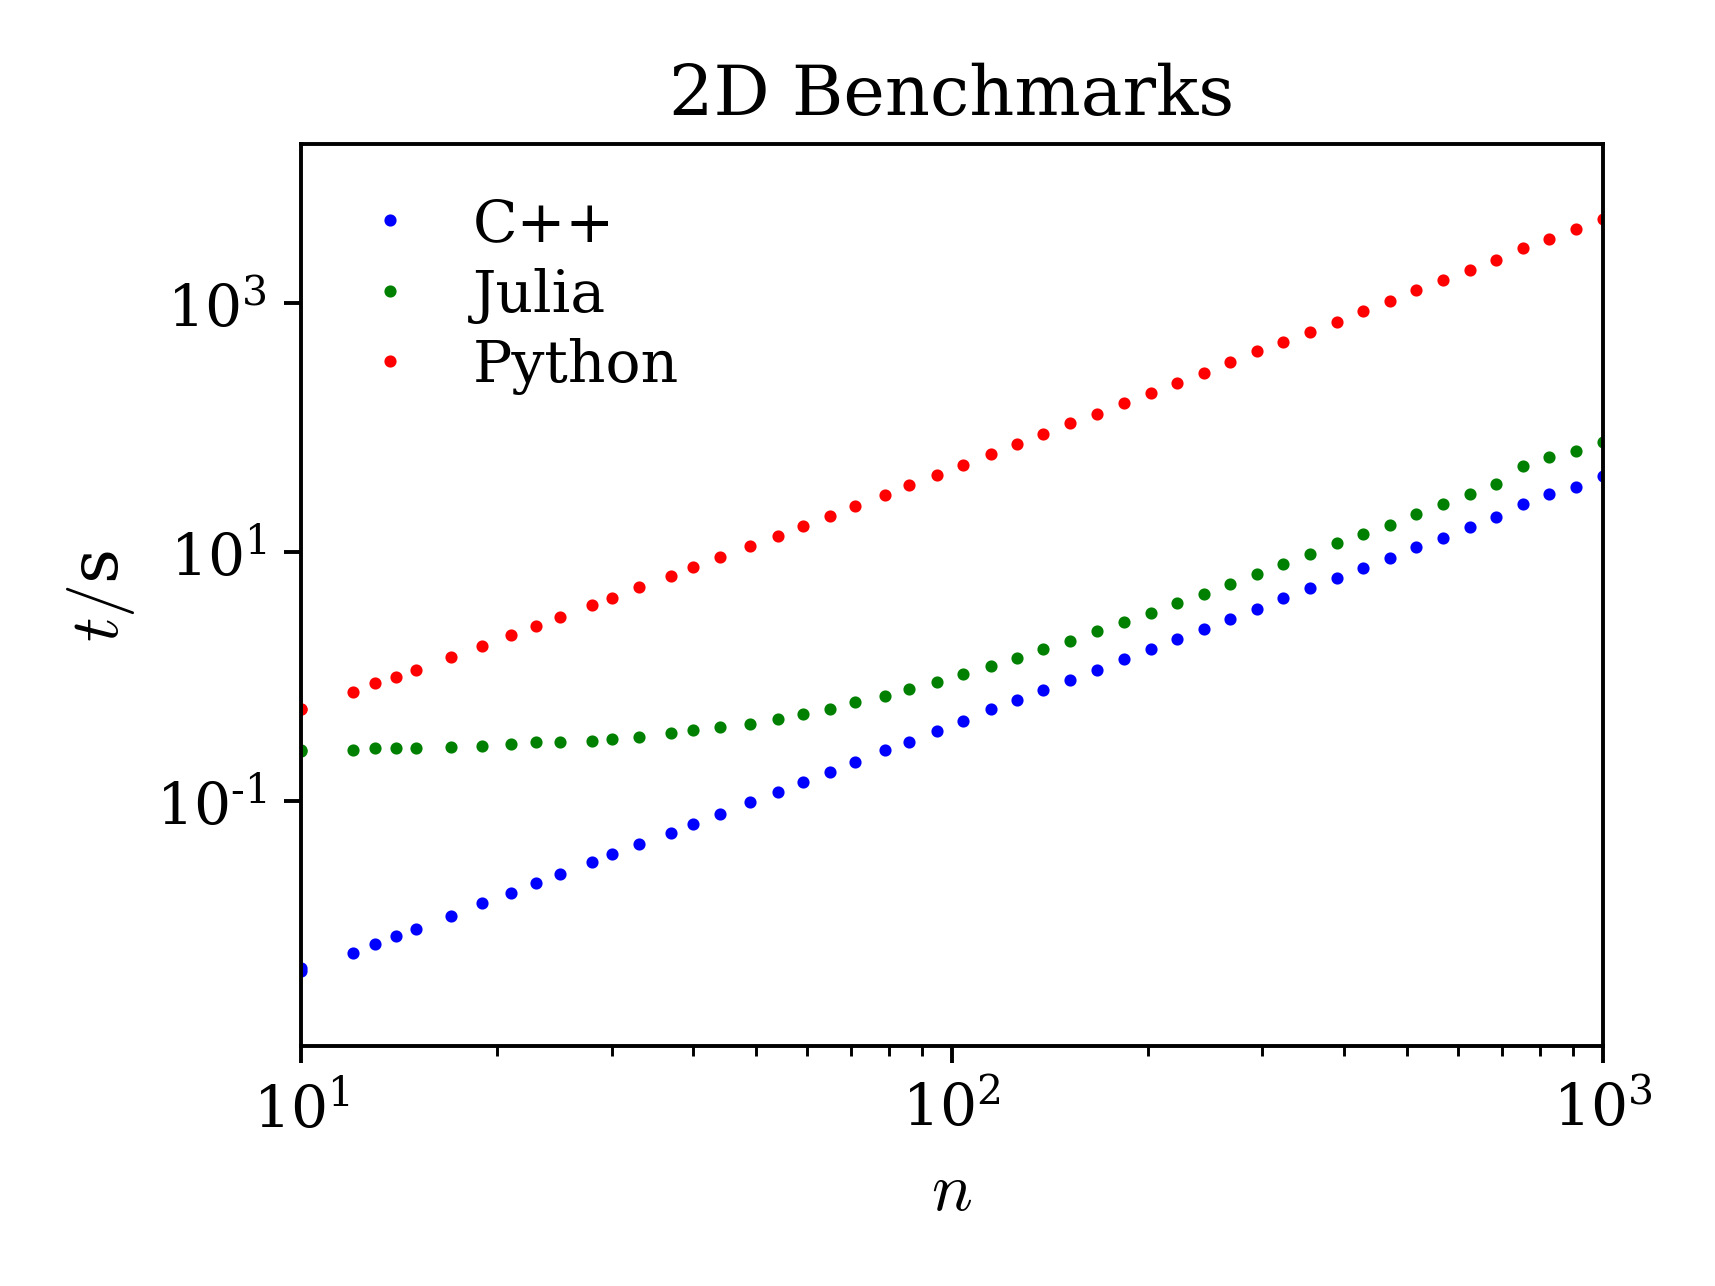
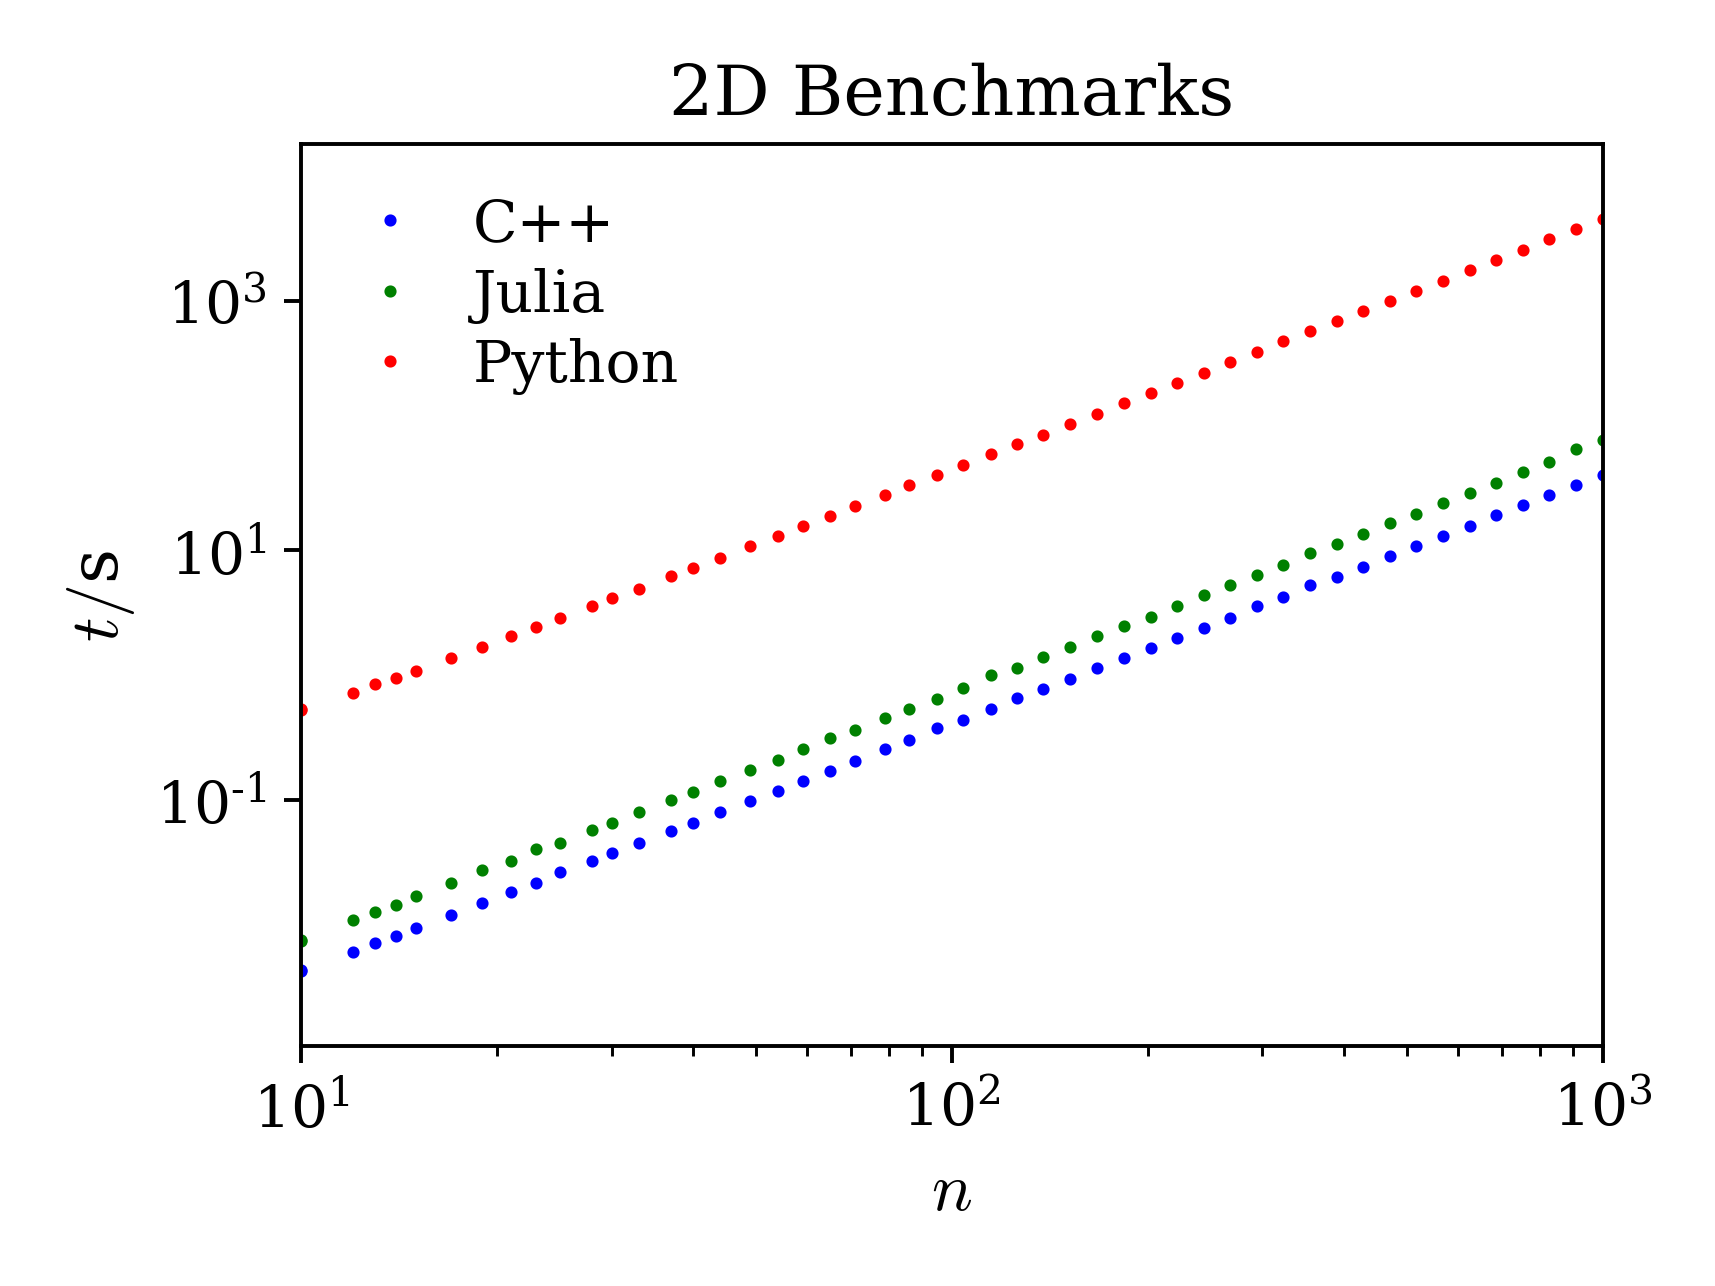
sam 2d run finished

diff --git a/benchmarking.py b/benchmarking.py
@@ -45,12 +45,11 @@ matplotlib.rcParams.update(
 )
 
 
-# n = np.logspace(1,2,25).astype(int)
-n = [10,12,14,16]
-n_iters = int(1e2)
+n = np.logspace(1,3,50).astype(int)
+n_iters = int(1e3)
 J = 0.1
 h = 0
-d = int(3)
+d = int(2)
 
 pc = "Sam"
 delim = "_"
@@ -60,6 +59,9 @@ data_root = "benchmarking/"+str(d)+"d/data/"
 
 figure_name = pc+delim+str(n_iters)+delim+str(J)+delim+str(h)+delim+str(d)+"."+format
 data_name = pc+delim+str(n_iters)+delim+str(J)+delim+str(h)+delim+str(d)+".dat"
+
+if os.path.exists(data_root+data_name):
+    os.remove(data_root+data_name)
 
 t_cpp = np.zeros(len(n))
 t_julia = np.zeros(len(n))
@@ -81,8 +83,6 @@ M,E = model.run()'''
     t_python[i] = timeit.timeit(setup=setup,stmt=stmt,number=1,globals=globals())
     with open(data_root+data_name,'a') as f:
         f.write(str(n[i])+" "+str(t_cpp[i])+" "+str(t_julia[i])+" "+str(t_python[i])+"\n")
-
-
 
 plt.figure(1,tight_layout=True)
 plt.loglog(n,t_cpp,'.b', label = "C++")
